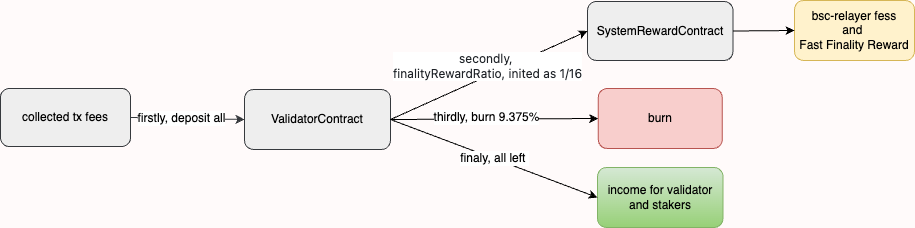
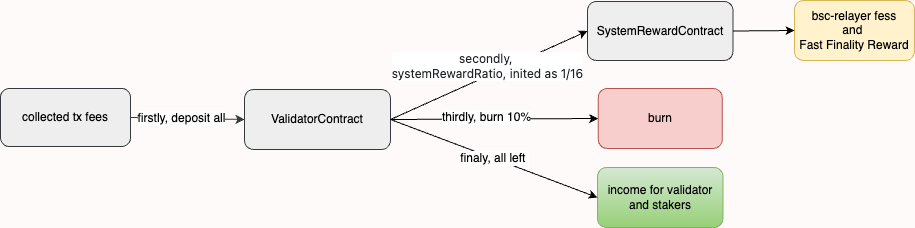
update doc about burn ratio in BEP-319

Changed region(s): [[0.4284, 0.307, 0.6426, 0.3684], [0.459, 0.4912, 0.612, 0.5526]]

diff --git a/BEPs/BEP-319.md b/BEPs/BEP-319.md
@@ -63,16 +63,10 @@ Due to the deposition of the SystemRewardContract being in the client, requiring
 
 1. Validators collect transaction fees from within the block and deposit all into the ValidatorContract.
 2. Deposit systemRewardRatio of transaction fees into the SystemRewardContract, where systemRewardRatio is governable, with an initial value of 1/16.
-3. Within the ValidatorContract, 9.375% of the deposited amount is burned directly, and the remainder serves as potential earnings for validators and stakers.
+3. Within the ValidatorContract, 10% of the deposited amount is burned directly, and the remainder serves as potential earnings for validators and stakers.
 #### 4.1.3 Maintain Burn Ratio 
-The real-time burning mechanism is an essential part of the BNB deflation plan. In this BEP, the goal is to maintain it essentially unchanged.
-Before implementing this BEP, a portion of the balance of the SystemRewardContract will be used as a reward for Fast Finality voting at the end of each epoch, resulting in a balance less than 100 BNB. Therefore, in the majority of blocks, validators will deposit 1/16 of the block transaction fees to the SystemRewardContract.
-The oldBurnRatio is 10%. The actual proportion of burned transaction fees to block transaction fees can be calculated approximately as follows:
-
-```
-newBurnRatio = (1 - 1/16) * oldBurnRatio = (1 - 1/16) * 10% = 9.375%
-```
-As a result, following the implementation of this BEP, the burn ratio is set to 9.375% directly.
+The real-time burning mechanism constitutes a pivotal element within the BNB deflationary strategy. With the inception of the burn mechanism in BEP-95, a fractional segment of the SystemRewardContract balance was earmarked for relayer incentive fees, while the burn ratio was calibrated to approximate 10% of the collected block transaction fees. 
+The present BEP adheres to the consistency established in BEP-95, upholding a burn ratio of 10%.
 ## 4.2 Balancing Rewards
 Fast Finality rewards are unevenly distributed between epochs. Assuming the current balance of the systemReward contract is currentSystemRewardBalance, and the balance after award distribution in the previous epoch is previousSystemRewardBalance, the totalReward calculation formula is as follows:
 ```
